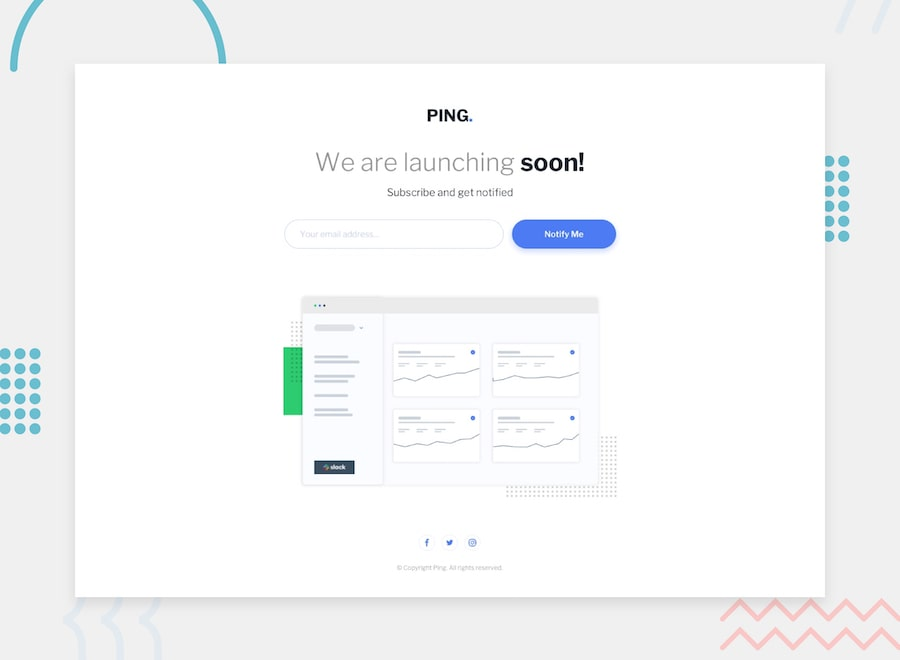
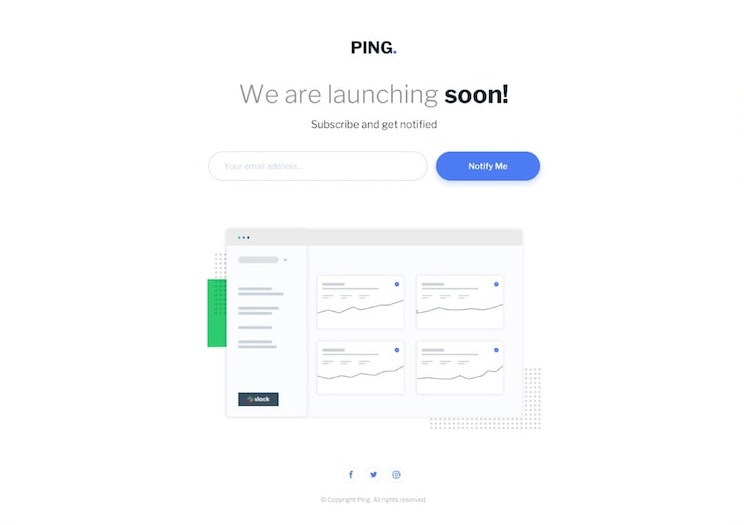
final version of the project

diff --git a/style.css b/style.css
@@ -1,0 +1,246 @@
+@import url('https://fonts.googleapis.com/css2?family=Libre+Franklin:wght@300;600;700&display=swap');
+:root{
+	---blue: hsl(223, 87%, 63%);
+	---pale-blue: hsl(223, 100%, 88%);
+	---light-red: hsl(354, 100%, 66%);
+	---gray: hsl(0, 0%, 59%);
+	---very-dark-blue: hsl(209, 33%, 12%);
+}
+*{
+	margin: 0 0;
+	padding: 0 0;
+	font-size: 20px;
+	font-family: 'Libre Franklin', sans-serif;
+}
+html{
+	}
+body{
+}
+main{
+	display: flex;
+	flex-flow: column;
+	flex-wrap: wrap;
+	padding: 70px 20px 10px 20px;
+	text-align: center;
+	align-items: center;
+	gap: 10px;
+}
+#logo{
+	max-width: 60px;
+	margin-bottom: 20px;
+}
+h1{
+	font-size: 24px;
+	font-weight: 300;
+	color: var(---gray);
+}
+h1 strong{
+	font-size: 24px;
+	color: black;
+}
+h2{
+	font-size: 12px;
+	font-weight: 600;
+	color: var(---gray);
+	margin-bottom: 10px;
+}
+
+.input-container{
+	max-width: 300px;
+	display: flex;
+	flex-flow: column;
+	gap: 5px;
+	margin-bottom: 30px;
+}
+::placeholder {
+  color: var(---pale-blue);
+  opacity: 1;
+}
+.input-error{
+	display: flex;
+	flex-flow: column;
+}
+.input-container input{
+	border-radius: 15px;
+	border-width: 1px;
+	border-color: var(---pale-blue);
+	color: var(---pale-blue);
+	font-size: 14px;
+	padding: 10px 20px;
+}
+.input-container button{
+	background-color: var(---blue);
+	color: white;
+	font-weight: 600;
+	border-radius: 15px;
+	border: none;
+	font-size: 14px;
+	padding: 10px 20px;
+	box-shadow: rgba(50, 50, 93, 0.25) 0px 13px 27px -5px, rgba(0, 0, 0, 0.3) 0px 8px 16px -8px;
+	transition: background-color 0.2s;
+}
+.input-container button:hover {
+	background-color: var(---very-dark-blue);
+}
+.error-hide {
+    overflow: hidden;
+    max-height: 0;
+    animation: close .5s ease;
+    padding-left: 2vh;
+    padding-right: 1vh;
+}
+
+.error-show {
+    overflow: hidden;
+    animation: open .5s ease;
+    margin-bottom: 0.5rem;
+    padding-left: 2vh;
+    padding-right: 1vh;
+}
+#invalid-email-msg{
+	color: var(---light-red);
+	font-size: 12px;
+}
+#illustration{
+	max-width: 400px;
+	margin-bottom: 40px;
+}
+.media-links{
+	display: flex;
+	flex-flow: row;
+	gap: 30px;
+}
+.social-icon{
+	max-width: 50px;
+	max-height: 50px;
+	border-radius: 50%;
+	border-width: 10px;
+	border-color: var(---pale-blue);
+	color: var(---blue);
+	transition: color 0.2s;
+	transition: background-color 0.2s;
+	margin-bottom: 10px;
+}
+.social-icon:hover{
+	color: white;
+	background-color: var(---blue);
+}
+ion-icon {
+  font-size: 15px;
+  margin-top: 10px;
+}
+.copyright{
+	color: var(---gray);
+	font-size: 10px;
+}
+footer{
+	display: none;
+}
+@media only screen and (min-width: 700px){
+	main{
+		padding: 40px ;
+	}
+	#logo{
+		max-width: 100px;
+		margin-bottom: 20px;
+	}
+	h1{
+		font-size: 28px;
+	}
+	h1 strong{
+		font-size: 28px;
+	}
+	h2{
+		font-size: 16px;
+	}
+	
+	.input-container{
+		display: flex;
+		flex-flow: row;
+		max-width: 600px;
+	}
+	.input-container input{
+		font-size: 16px;
+	}
+	.input-error{
+		display: flex;
+		flex-flow: column;
+	}
+	.input-container button{
+		display: flex;
+		flex-flow: row;
+		min-width: 120px;
+		font-size: 16px;
+		max-height: 40px;
+	}
+	#illustration{
+		max-width: 600px;
+	}
+	.social-icon{
+		max-width: 80px;
+		max-height: 80px;
+		border-radius: 50%;
+		border-width: 10px;
+		border-color: var(---pale-blue);
+		color: var(---blue);
+		transition: color 0.2s;
+		transition: background-color 0.2s;
+		margin-bottom: 10px;
+	}
+	ion-icon {
+		font-size: 20px;
+		margin-top: 10px;
+	}
+	.copyright{
+		font-size: 16px;
+	}
+}
+@media only screen and (min-width: 1000px){
+	main{
+		padding: 80px 0px ;
+	}
+	#logo{
+		max-width: 150px;
+		margin-bottom: 20px;
+	}
+	h1{
+		font-size: 56px;
+	}
+	h1 strong{
+		font-size: 56px;
+	}
+	h2{
+		font-size: 24px;
+	}
+	
+	.input-container{
+		display: flex;
+		flex-flow: row;
+		max-width: 800px;
+		gap: 20px;
+	}
+	.input-container input{
+		font-size: 18px;
+	}
+	.input-error{
+		display: flex;
+		flex-flow: column;
+	}
+	.input-container button{
+		min-width: 200px;
+		display: flex;
+		flex-flow: row;
+		align-items: center	;
+		padding:  20px 60px;
+	}
+	#illustration{
+		max-width: 900px;
+	}
+	ion-icon {
+		font-size: 30px;
+		margin-top: 10px;
+	}
+	.copyright{
+		font-size: 18px;
+	}
+}

diff --git a/index.html b/index.html
@@ -2,33 +2,46 @@
 <html lang="en">
 <head>
   <meta charset="UTF-8">
-  <meta name="viewport" content="width=device-width, initial-scale=1.0"> <!-- displays site properly based on user's device -->
+  <meta name="viewport" content="width=device-width, initial-scale=1.0">
 
   <link rel="icon" type="image/png" sizes="32x32" href="./images/favicon-32x32.png">
   
   <title>Frontend Mentor | Ping coming soon page</title>
 
-  <!-- Feel free to remove these styles or customise in your own stylesheet 👍 -->
-  <style>
-    .attribution { font-size: 11px; text-align: center; }
-    .attribution a { color: hsl(228, 45%, 44%); }
-  </style>
+  <link rel="stylesheet" type="text/css" href="style.css">
 </head>
 <body>
+  <main>
+    <img id="logo" src="images/logo.svg" alt="logo">
+    <h1>We are launching <strong>soon!</strong></h1>
+    <h2>Subscribe and get notified</h2>
+    <div class="input-container">
+      <div class="input-error">
+        <input id="input" type="email" name="email" placeholder="Your email adress...">
+        <p id="invalid-email-msg" class="error-hide"><em>Please provide a valid email adress</em></p>
+      </div>
+      <button onclick="handleClick(this)" id="button-notify">Notify Me</button>
+    </div>
+    <img id="illustration" src="images/illustration-dashboard.png">
 
-  We are launching soon!
-
-  Subscribe and get notified
-
-  Notify Me
-
-  &copy; Copyright Ping. All rights reserved.
-
-  <footer>
-    <p class="attribution">
-      Challenge by <a href="https://www.frontendmentor.io?ref=challenge" target="_blank">Frontend Mentor</a>. 
-      Coded by <a href="#">Your Name Here</a>.
-    </p>
-  </footer>
+    <div class="media-links">
+      <a class="social-icon" href="https://www.facebook.com/"><ion-icon name="logo-facebook" target="_blank"></ion-icon></a>
+      <a class="social-icon" href="https://twitter.com/"><ion-icon name="logo-twitter" target="_blank">></ion-icon></a>
+      <a class="social-icon" href="https://www.instagram.com/"><ion-icon name="logo-instagram" target="_blank">></ion-icon></a>
+      </div>
+    </div>
+    <div class="copyright">
+      &copy; Copyright Ping. All rights reserved.
+    </div>
+    <footer>
+      <p class="attribution">
+        Challenge by <a href="https://www.frontendmentor.io?ref=challenge" target="_blank">Frontend Mentor</a>. 
+        Coded by <a href="#">Your Name Here</a>.
+      </p>
+    </footer>
+  </main>
+  <script src="script.js"></script>
+  <script type="module" src="https://unpkg.com/ionicons@5.5.2/dist/ionicons/ionicons.esm.js"></script>
+  <script nomodule src="https://unpkg.com/ionicons@5.5.2/dist/ionicons/ionicons.js"></script>
 </body>
 </html>

diff --git a/script.js b/script.js
@@ -1,0 +1,31 @@
+function validateEmail(val){
+  var validRegex = /^[a-zA-Z0-9.!#$%&'*+/=?^_`{|}~-]+@[a-zA-Z0-9-]+(?:\.[a-zA-Z0-9-]+)*$/;
+  if (val.match(validRegex)) {
+    return true;
+  } else {
+    return false;
+  }
+}
+
+function errorpopup(input,btn,err,invalid){
+  btn.addEventListener('click', ()=>{
+  val = input.value;
+  result = validateEmail(val);
+  if(result == false){
+    invalid.classList.remove("error-hide");
+    invalid.classList.add("error-show");
+    input.style.border = '1.5px solid red';
+  }
+  else{
+    invalid.classList.remove("error-show");
+    invalid.classList.add("error-hide");
+    input.style.border = '1.5px solid green';
+  }
+  })
+}
+
+var input,btn,err,invalid,answer;
+input = document.getElementById('input');
+btn = document.getElementById('button-notify');
+invalid = document.getElementById('invalid-email-msg');
+errorpopup(input,btn,err,invalid);
